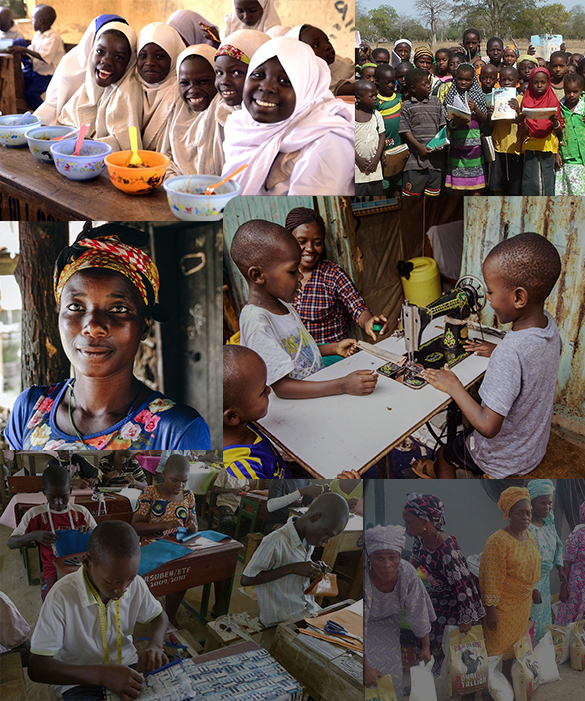
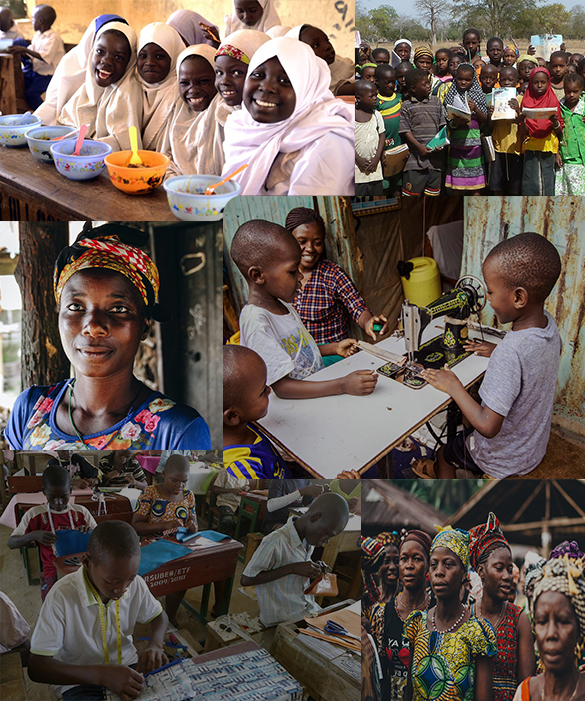
Make Changes to Existing components

Changed region(s): [[0.6154, 0.6591, 1.0, 1.0]]

diff --git a/src/components/section/WhatWeDo.js b/src/components/section/WhatWeDo.js
@@ -14,8 +14,8 @@ const WhatWeDo = () => {
     return (
         <>
             <section className="relative overflow-hidden ">
-                <div className="py-16">
-                    <div className="px-5 lg:px-12">
+                <div className="py-16 lg:pl-8 xl:pl-20 xl:pr-8">
+                    <div className="px-5 lg:px-6">
                         <div className="relative">
                             <Fade top>
                                 <SectionTitle title="What We do" />
@@ -43,7 +43,7 @@ const WhatWeDo = () => {
                                     <div className>
                                         <div className="grid grid-cols-1 sm:grid-cols-2 lg:grid-cols-1 lg:gap-12 gap-10">
                                             <Fade left>
-                                                <div className="flex p-4 shadow-md">
+                                                <div className="flex p-4 shadow-md border border-gray-200 rounded-md">
                                                     <div className="mr-6">
                                                         <img src={Health} width={80} height={80} alt="health icon" className="min-w-[40px] min-h-[40px]" />
 
@@ -56,7 +56,7 @@ const WhatWeDo = () => {
 
                                             </Fade>
                                             <Fade bottom>
-                                                <div className="flex p-4 shadow-md">
+                                                <div className="flex p-4 shadow-md border border-gray-200 rounded-md">
                                                     <div className="mr-6">
                                                         <img src={Education} width={65} height={65} alt="health icon" className="min-w-[40px] min-h-[40px]" />
                                                     </div>
@@ -69,7 +69,7 @@ const WhatWeDo = () => {
                                             </Fade>
 
                                             <Fade top>
-                                                <div className="flex p-4 shadow-md">
+                                                <div className="flex p-4 shadow-md border border-gray-200 rounded-md">
                                                     <div className="mr-6">
                                                         <img src={Employment} width={65} height={65} alt="health icon" className="min-w-[40px] min-h-[40px]" />
 
@@ -84,7 +84,7 @@ const WhatWeDo = () => {
 
 
                                             <Fade bottom>
-                                                <div className="flex p-4 shadow-md">
+                                                <div className="flex p-4 shadow-md border border-gray-200 rounded-md">
                                                     <div className="mr-6">
                                                         <svg width="36" height="36" viewBox="0 0 36 36" fill="none" xmlns="http://www.w3.org/2000/svg">
                                                             <path d="M10.5 10.5C12.1569 10.5 13.5 9.15685 13.5 7.5C13.5 5.84315 12.1569 4.5 10.5 4.5C8.84315 4.5 7.5 5.84315 7.5 7.5C7.5 9.15685 8.84315 10.5 10.5 10.5Z" stroke="#1F2937" strokeWidth="2.75" strokeLinecap="round" strokeLinejoin="round" />
@@ -110,7 +110,11 @@ const WhatWeDo = () => {
                                 </div>
                                 <Fade right>
                                     <div className="order-first lg:order-last">
-                                        <img src={SectionImg} width={80} height={80} alt="SectionImg icon" className="object-cover w-full  h-full rounded-lg shadow-lg min-w-[0px] min-h-[0px]" />
+
+                                        <div className="z-20 overflow-hidden group rounded-xl w-full h-full" >
+                                            <img src={SectionImg} loading="lazy" alt="What we do banner" className="w-full  h-full object-cover rounded-xl group-hover:scale-105 transition-transform duration-700" />
+                                        </div>
+
                                     </div>
                                 </Fade>
                             </div>

diff --git a/src/assets/svgsIcons.js b/src/assets/svgsIcons.js
@@ -54,9 +54,10 @@ export function Mail(props) {
   );
 }
 export function LoveIcon({ props }) {
+  // #f43f5e ->red love color
   return (
     <svg xmlns="http://www.w3.org/2000/svg" {...props} width={20} height={20} fill="none" viewBox="0 0 24 24">
-      <path fill="#f43f5e" fillrule="evenodd" d="M6.474 1.965c1.806-.027 3.791.66 5.526 2.083 1.735-1.424 3.72-2.11 5.526-2.083 1.988.03 3.807.936 4.688 2.72.874 1.77.719 4.191-.75 7.051-1.47 2.864-4.3 6.266-8.977 10.12a.745.745 0 01-.817.104.745.745 0 01-.157-.103c-4.677-3.855-7.507-7.257-8.977-10.12-1.469-2.86-1.624-5.282-.75-7.052.88-1.784 2.7-2.69 4.688-2.72z" cliprule="evenodd" />
+      <path fill="#ffffff" fillrule="evenodd" d="M6.474 1.965c1.806-.027 3.791.66 5.526 2.083 1.735-1.424 3.72-2.11 5.526-2.083 1.988.03 3.807.936 4.688 2.72.874 1.77.719 4.191-.75 7.051-1.47 2.864-4.3 6.266-8.977 10.12a.745.745 0 01-.817.104.745.745 0 01-.157-.103c-4.677-3.855-7.507-7.257-8.977-10.12-1.469-2.86-1.624-5.282-.75-7.052.88-1.784 2.7-2.69 4.688-2.72z" cliprule="evenodd" />
     </svg>
 
   );

diff --git a/src/components/section/HeroIntro.js b/src/components/section/HeroIntro.js
@@ -44,7 +44,7 @@ export const HeroSlide = ({ banner1, banner2, banner3, btnLink, btnTitle, title,
                                 {banner2}
                             </div>
                         </div>
-                        <img src={HeroShape2} width={622} height={551} alt="" className="absolute right-[-25px] top-[-20px] md:right-5 lg:right-0 lg:top-[-90px]" />
+                        <img src={HeroShape2} width={638} height={551} alt="" className="absolute right-[-25px] top-[-20px] md:right-5 lg:right-0 lg:top-[-80px]" />
                     </div>
                 </div>
 

diff --git a/src/index.css b/src/index.css
@@ -104,6 +104,10 @@ input:-webkit-autofill:active {
 .custom-shadow {
   box-shadow: rgba(0, 0, 0, 0.35) 0px 5px 15px;
 }
+.custom-shadow2 {
+  box-shadow: rgba(0, 0, 0, 0.25) 0px 14px 28px,
+    rgba(0, 0, 0, 0.22) 0px 10px 10px;
+}
 /*-----------------------------------*\
   #HERO
 \*-----------------------------------*/

diff --git a/src/pages/Home.js b/src/pages/Home.js
@@ -13,12 +13,12 @@ const Home = () => {
     <div className="">
       <HeroIntro />
       <AboutIntro />
-      {/* <Stats /> */}
       <WhatWeDo />
 
 
 
-      {/* <PagesHeader /> */}
+      {/* <PagesHeader />
+      <Stats /> */}
       {/* <Hero /> */}
 
 
